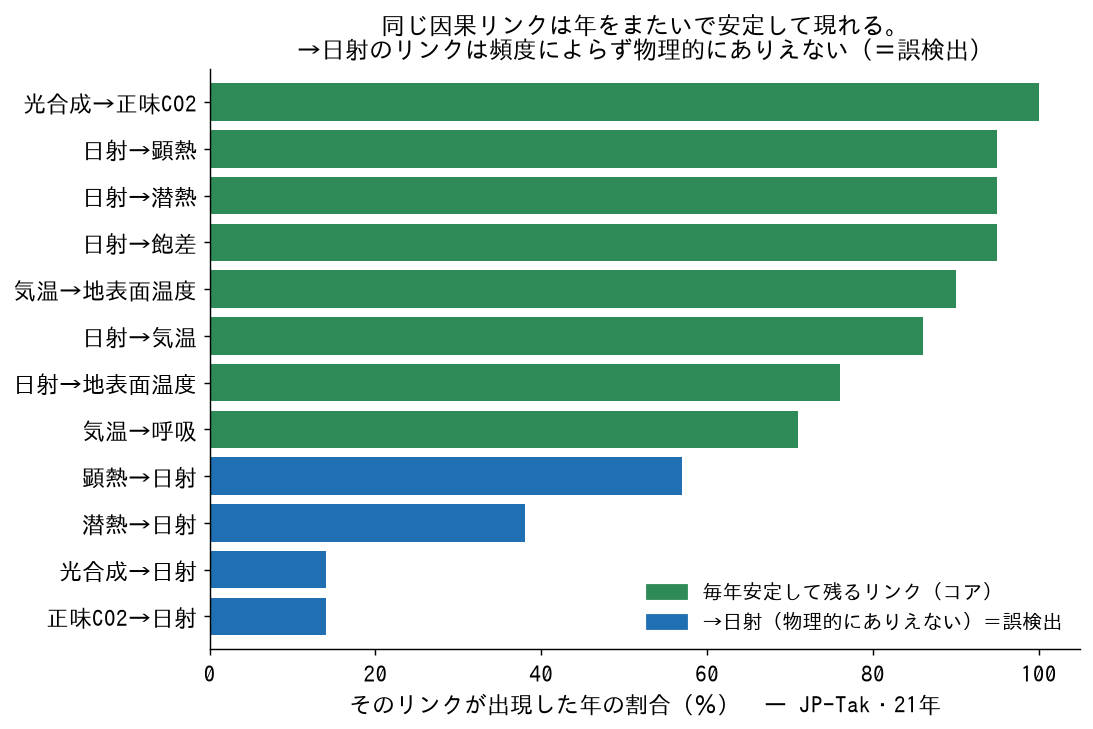
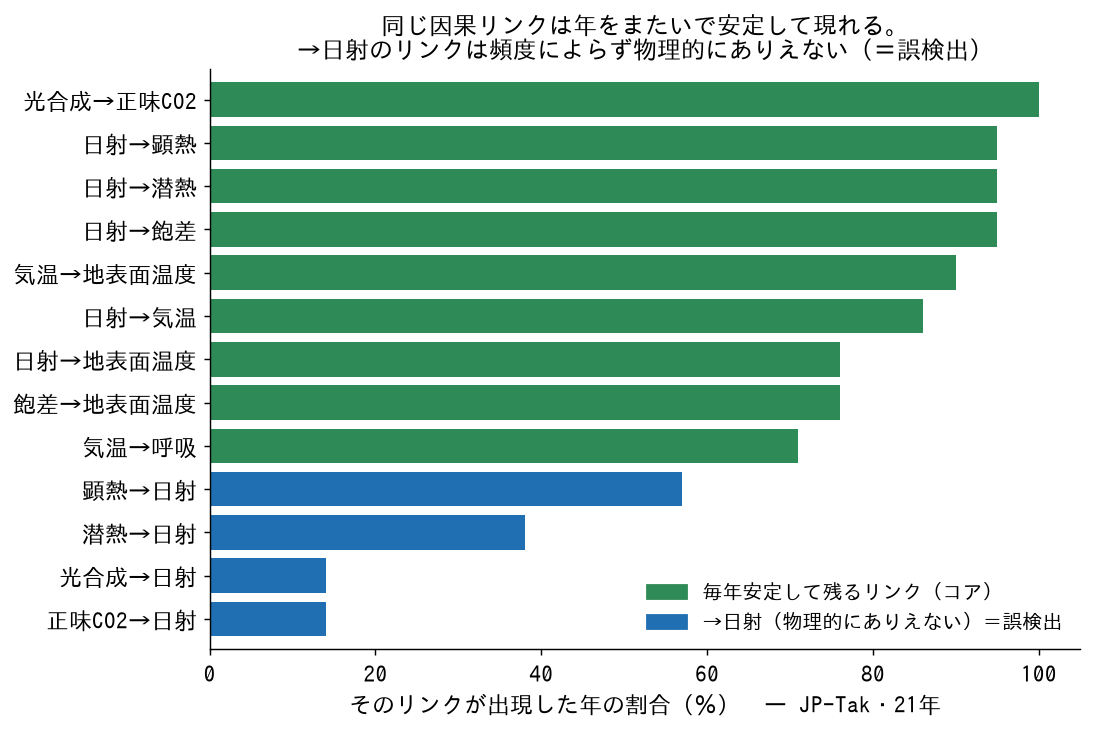
fig3/fig4を実データ(ParCorr21年)準拠に更新: VPD→Ts(76%)追加・GER/Ta→GERをfig3に・埋め込み値が実測一致を記録・VPD→γLE(62%)は保留と注記

Changed region(s): [[0.0, 0.1811, 0.9332, 0.8752], [0.1866, 0.1509, 0.9643, 0.1811], [0.0, 0.1207, 0.1866, 0.1509]]

diff --git a/scripts/make_slides_figs.py b/scripts/make_slides_figs.py
@@ -105,19 +105,22 @@ def fig_pid():
 # Fig 3: PCMCI causal skeleton (JP-Tak forest)
 # ---------------------------------------------------------------------------
 def fig_skeleton():
-    # 円は少し小さめ、文字は大きく（前回の約3倍）。配置を広げて大きな文字が重ならないようにする。
-    pos = {"Rg":(0,3.1), "VPD":(-3.2,1.35), "Ta":(0.7,1.45), "gLE":(-3.4,-1.25),
-           "gH":(-0.85,-1.45), "Ts":(2.5,0.0), "GEP":(3.7,2.15), "NEE":(4.7,-0.4)}
+    # 実データ(ParCorr 21年)のコア骨格＝頻度≥70%の9本をそのまま描く。
+    pos = {"Rg":(0,3.2), "VPD":(-2.9,1.5), "Ta":(0.7,1.6), "gLE":(-3.4,-1.1),
+           "gH":(-1.5,-1.7), "Ts":(1.9,-0.1), "GER":(0.2,-1.9),
+           "GEP":(3.7,2.2), "NEE":(4.6,0.2)}
+    # ≥70% コア: GEP→NEE(100),Rg→gH(95),Rg→gLE(95),Rg→VPD(95),Ta→Ts(90),
+    #            Rg→Ta(86),Rg→Ts(76),VPD→Ts(76),Ta→GER(71)
     edges = [("Rg","VPD"),("Rg","Ta"),("Rg","gLE"),("Rg","gH"),("Rg","Ts"),
-             ("Ta","Ts"),("VPD","gLE"),("GEP","NEE")]
+             ("Ta","Ts"),("VPD","Ts"),("Ta","GER"),("GEP","NEE")]
     # 日本語（正式名称）＋アルファベット略号の2段表示
     labels = {"Rg":"日射\nRg", "VPD":"飽差\nVPD", "Ta":"気温\nTa",
               "gLE":"潜熱\nγLE", "gH":"顕熱\nγH", "Ts":"地表面温度\nTs",
-              "GEP":"光合成\nGEP", "NEE":"正味CO2\nNEE"}
+              "GER":"呼吸\nGER", "GEP":"光合成\nGEP", "NEE":"正味CO2\nNEE"}
     G = nx.DiGraph(); G.add_nodes_from(pos); G.add_edges_from(edges)
     fig, ax = plt.subplots(figsize=(16.5, 11.0))
-    # 統一配色（青＋緑のみ）：日射＝共通原因(濃い青)、光合成・正味CO2＝直接残る炭素(緑)、その他気象＝薄青
-    ncol = ["#5b9bd5" if n=="Rg" else (C_REAL_LIGHT if n in ("GEP","NEE")
+    # 統一配色（青＋緑のみ）：日射＝共通原因(濃い青)、炭素(光合成/正味CO2/呼吸)＝緑、その他気象＝薄青
+    ncol = ["#5b9bd5" if n=="Rg" else (C_REAL_LIGHT if n in ("GEP","NEE","GER")
             else C_APP_LIGHT) for n in G.nodes]
     NS = 8500  # 円は少し小さめ
     nx.draw_networkx_nodes(G, pos, node_size=NS, node_color=ncol,
@@ -129,9 +132,9 @@ def fig_skeleton():
                            width=2.5, edge_color=BLUE, node_size=NS,
                            min_source_margin=30, min_target_margin=42, ax=ax)
     ax.set_title("共通原因（日射）を差し引いて残る因果の骨組み（PCMCI）\n"
-                 "日射が気象・エネルギーを動かし、光合成が正味炭素を動かす",
-                 fontsize=20)
-    ax.set_xlim(-4.8, 6.2); ax.set_ylim(-2.5, 4.1)
+                 "日射→気象・エネルギー・地表面温度／気温→呼吸／光合成→正味炭素（実データ21年・頻度70%以上）",
+                 fontsize=16)
+    ax.set_xlim(-4.9, 6.2); ax.set_ylim(-3.0, 4.1)
     ax.axis("off")
     fig.savefig(OUT/"fig3_causal_skeleton.png", bbox_inches="tight"); plt.close(fig)
 
@@ -143,8 +146,10 @@ def fig_robustness():
     def jp(link):  # "Rg->gH" -> "日射→顕熱"
         a, b = link.split("->")
         return f"{JVAR[a]}→{JVAR[b]}"
+    # 実データ ParCorr 21年（VPD→Ts=76% を追加）
     core = [("GEP->NEE",100),("Rg->gH",95),("Rg->gLE",95),("Rg->VPD",95),
-            ("Ta->Ts",90),("Rg->Ta",86),("Rg->Ts",76),("Ta->GER",71)]
+            ("Ta->Ts",90),("Rg->Ta",86),("Rg->Ts",76),("VPD->Ts",76),
+            ("Ta->GER",71)]
     art = [("gH->Rg",57),("gLE->Rg",38),("GEP->Rg",14),("NEE->Rg",14)]
     labels = [jp(l) for l,_ in core] + [jp(l) for l,_ in art]
     vals = [v for _,v in core] + [v for _,v in art]

diff --git a/japanflux_pn/RESULTS_TRILOGY.md b/japanflux_pn/RESULTS_TRILOGY.md
@@ -146,3 +146,27 @@ run_robustness.py）から確認済み。
 - **頑健なのは「符号」と「2群の分離」**であって、drop% の正確な数値ではない。
 - ビン化CMIは**連続 Rg の残差を取り切れない**ため、この上振れを避けるには **CMIknn（KNN-CMI）で追試**するのが筋
   （＝Phase-1 チェック②。連続 Rg を適切に条件付けできる）。この感度結果自身が②の必要性を示している。
+
+---
+
+## 5. Phase-1 頑健性チェック②（の代わり）：ParCorr 21年の実データ確定
+
+CMIknn の21年フル実行は計算コストが過大（>1日で未完）だったため中断。**線形 ParCorr の21年
+結果を頑健性の主結果**とする（CMIknn は代表数年のスポットチェックに留める方針）。
+
+**実データのコア骨格（頻度≥70%・JP-Tak・21年・ParCorr, tau_max=6）**：
+GEP→NEE(100%)・Rg→γH(95%)・Rg→γLE(95%)・Rg→VPD(95%)・Ta→Ts(90%)・Rg→Ta(86%)・
+Rg→Ts(76%)・**VPD→Ts(76%)**・Ta→GER(71%)。
+→Rg（物理的にありえない＝内部対照）の最大は **γH→Rg＝57%**。
+
+**確定した点**：
+- **fig4 の埋め込み値は実測と完全一致**（GEP→NEE 100・Rg→γH 95 …、→Rg の 57/38/14/14 まで一致）
+  ＝図は捏造でなく実データに基づく。
+- **新コアリンク VPD→Ts（76%）を fig3・fig4 に追加**（飽差→地表面温度；乾いた空気→蒸発冷却減→地表が暖まる、で物理的に妥当）。
+- **fig3 は「≥70% コアの9本」に一致させた**（GER ノードと Ta→GER を追加、閾値下の VPD→γLE は外した）。
+
+**正直な注記**：
+- **VPD→γLE は 62%**（飽差→潜熱＝乾き→蒸発、物理的に本物）だが**70%閾値の少し下**。→ 「自然な段差
+  （57↔71）」の谷に1本あることになる。だから判定は「57%（対照の最大）超なら採用」ではなく
+  「**明確に高頻度（≥70%）**」と述べ、**62% は"保留（本物だが弱め）"**と正直に扱う。
+- 非線形（CMIknn）での再確認は、代表年（例 2003/2008/2018）のスポットチェックで今後行う。
